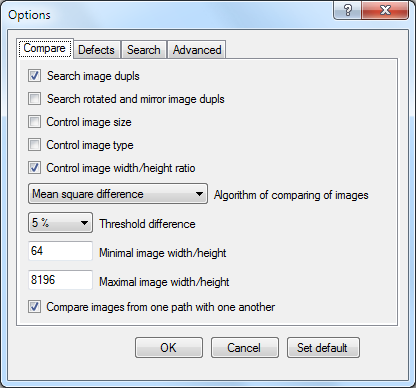
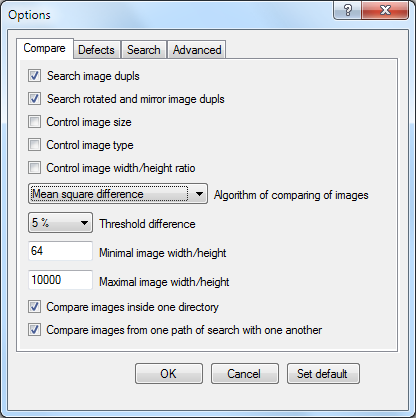
Update help.

Changed region(s): [[0.0, 0.0, 1.0, 0.8041], [0.0312, 0.8351, 0.9375, 0.9278], [0.0312, 0.9588, 0.9688, 0.9897]]

diff --git a/trunk/data/help/english/options.html b/trunk/data/help/english/options.html
@@ -85,8 +85,13 @@ The default setting is 64.
 This option allows you to exclude from the search too large images.
 The default setting is 8192. 
  </p></li>
+  <li><p align="justify">
+<b>Compare images inside one directory</b> - when this option is enabled, the program compares with each other the pictures located both in one directory and in the different.
+Otherwise, the program will compare among themselves only the images which aren't lying in one directory.
+By default, this option is disabled.
+ </p></li>
  <li><p align="justify">
-<b>Compare images from one path with one another</b> - when this option is enabled, the program compares one with another pictures that are located in the same <a href="index.html?page=paths.html" target="_top">search path</a>. 
+<b>Compare images from one path of search with one another</b> - when this option is enabled, the program compares one with another pictures that are located in the same <a href="index.html?page=paths.html" target="_top">search path</a>. 
 Otherwise, the program will only compare the images from different search paths.
 By default, this option is disabled.
  </p></li>

diff --git a/trunk/data/help/english/menu.html b/trunk/data/help/english/menu.html
@@ -121,8 +121,7 @@ The operation "Refresh results" is needed to remove these invalid links from the
 This item is duplicated by button of the <a href="index.html?page=toolbar.html" target="_top">Tool Bar</a>.
  </p></li>
   <li><p align="justify">
-<b>Refresh database of image</b> - selecting the item, you can update a database of images.
-It is sometimes necessary to do in order to optimize its size.
+<b>Delete irrelevant records from a database of image</b> - selecting the item, you can remove from a database of images of record relating to images which were moved or removed. It is sometimes necessary to do in order to optimize its size.
  </p></li>
  <li><p align="justify">
 <b>Paths</b> - opens <a href="index.html?page=paths.html" target="_top">Paths Window</a> or its simplified version. 

diff --git a/trunk/data/help/english/paths.html b/trunk/data/help/english/paths.html
@@ -95,7 +95,7 @@ Note that the Ignore Path has priority over the Search Path, because if the path
 <p align="justify">
 If you had search previously in the specified directory, 
 then it will be unreasonable to compare again pictures with each other, and also to check for defects.
-To avoid this, you must use the paths from the <b>Valid</b> tab.
+To avoid this, you must use the paths from the <b>Valid</b> tab. Pictures lying in valid paths are compared only with not lying there.
 Literate tuning of these pathways can significantly reduce the search time, 
 such as in the case when we compare the new directory with the previously tested directories.
 </p>

diff --git a/trunk/data/help/english/table.html b/trunk/data/help/english/table.html
@@ -51,6 +51,9 @@ This can be:
 <b>Group</b> - searched pairs of duplicate images can be combined into groups with similar results.
 This column displays the number of such groups. 
  </p></li>
+  <li><p align="justify">
+<b>Size of group</b> - This column displays the size of group. 
+ </p></li>
  <li><p align="justify">
 <b>Difference</b> - it displays the percentage mean-square difference of content of pictures of duplicate pair.
 If the images are fully identical, the difference is shown in green.

diff --git a/trunk/data/help/english/preview.html b/trunk/data/help/english/preview.html
@@ -149,6 +149,12 @@ Open the picture with using an external picture viewer.
 View the directory, which contains the current image.
   </p></li>
   <li><p align="justify">
+Add image to the ignored.
+  </p></li>
+    <li><p align="justify">
+Add directory of image to the ignored paths. The same can be made and on a tab ignore, windows of a choice of paths.
+  </p></li>
+  <li><p align="justify">
 Rename or move current image.
   </p></li>
   <li><p align="justify">

diff --git a/trunk/src/AntiDupl/AntiDupl.NET/StringsDefaultEnglish.cs b/trunk/src/AntiDupl/AntiDupl.NET/StringsDefaultEnglish.cs
@@ -186,7 +186,7 @@ namespace AntiDupl.NET
 
             s.ResultsListView_Type_Column_Text = "Type";
             s.ResultsListView_Group_Column_Text = "Group";
-            s.ResultsListView_GroupSize_Column_Text = "Group size";
+            s.ResultsListView_GroupSize_Column_Text = "Size of group";
             s.ResultsListView_Difference_Column_Text = "Difference";
             s.ResultsListView_Defect_Column_Text = "Defect type";
             s.ResultsListView_Transform_Column_Text = "Transformation";

diff --git a/trunk/src/AntiDupl/AntiDupl/adImageDataStorage.cpp b/trunk/src/AntiDupl/AntiDupl/adImageDataStorage.cpp
@@ -132,9 +132,16 @@ namespace ad
 			size_t i = 0;
 			for(TIndex::iterator it = index.begin(); it != index.end(); ++it)
 			{
+				if(m_pStatus->Stopped())
+				{
+					m_pStatus->Reset();
+					return AD_ERROR_UNKNOWN;
+				}
+
 				if(it->second.type == TData::Old)
 				{
-					LoadData(it->second, path, it->second.key);
+					if (!LoadData(it->second, path, it->second.key))
+						return AD_ERROR_UNKNOWN;
 					m_pStatus->SetProgress(i, size);
 					i += it->second.size;
 				}
